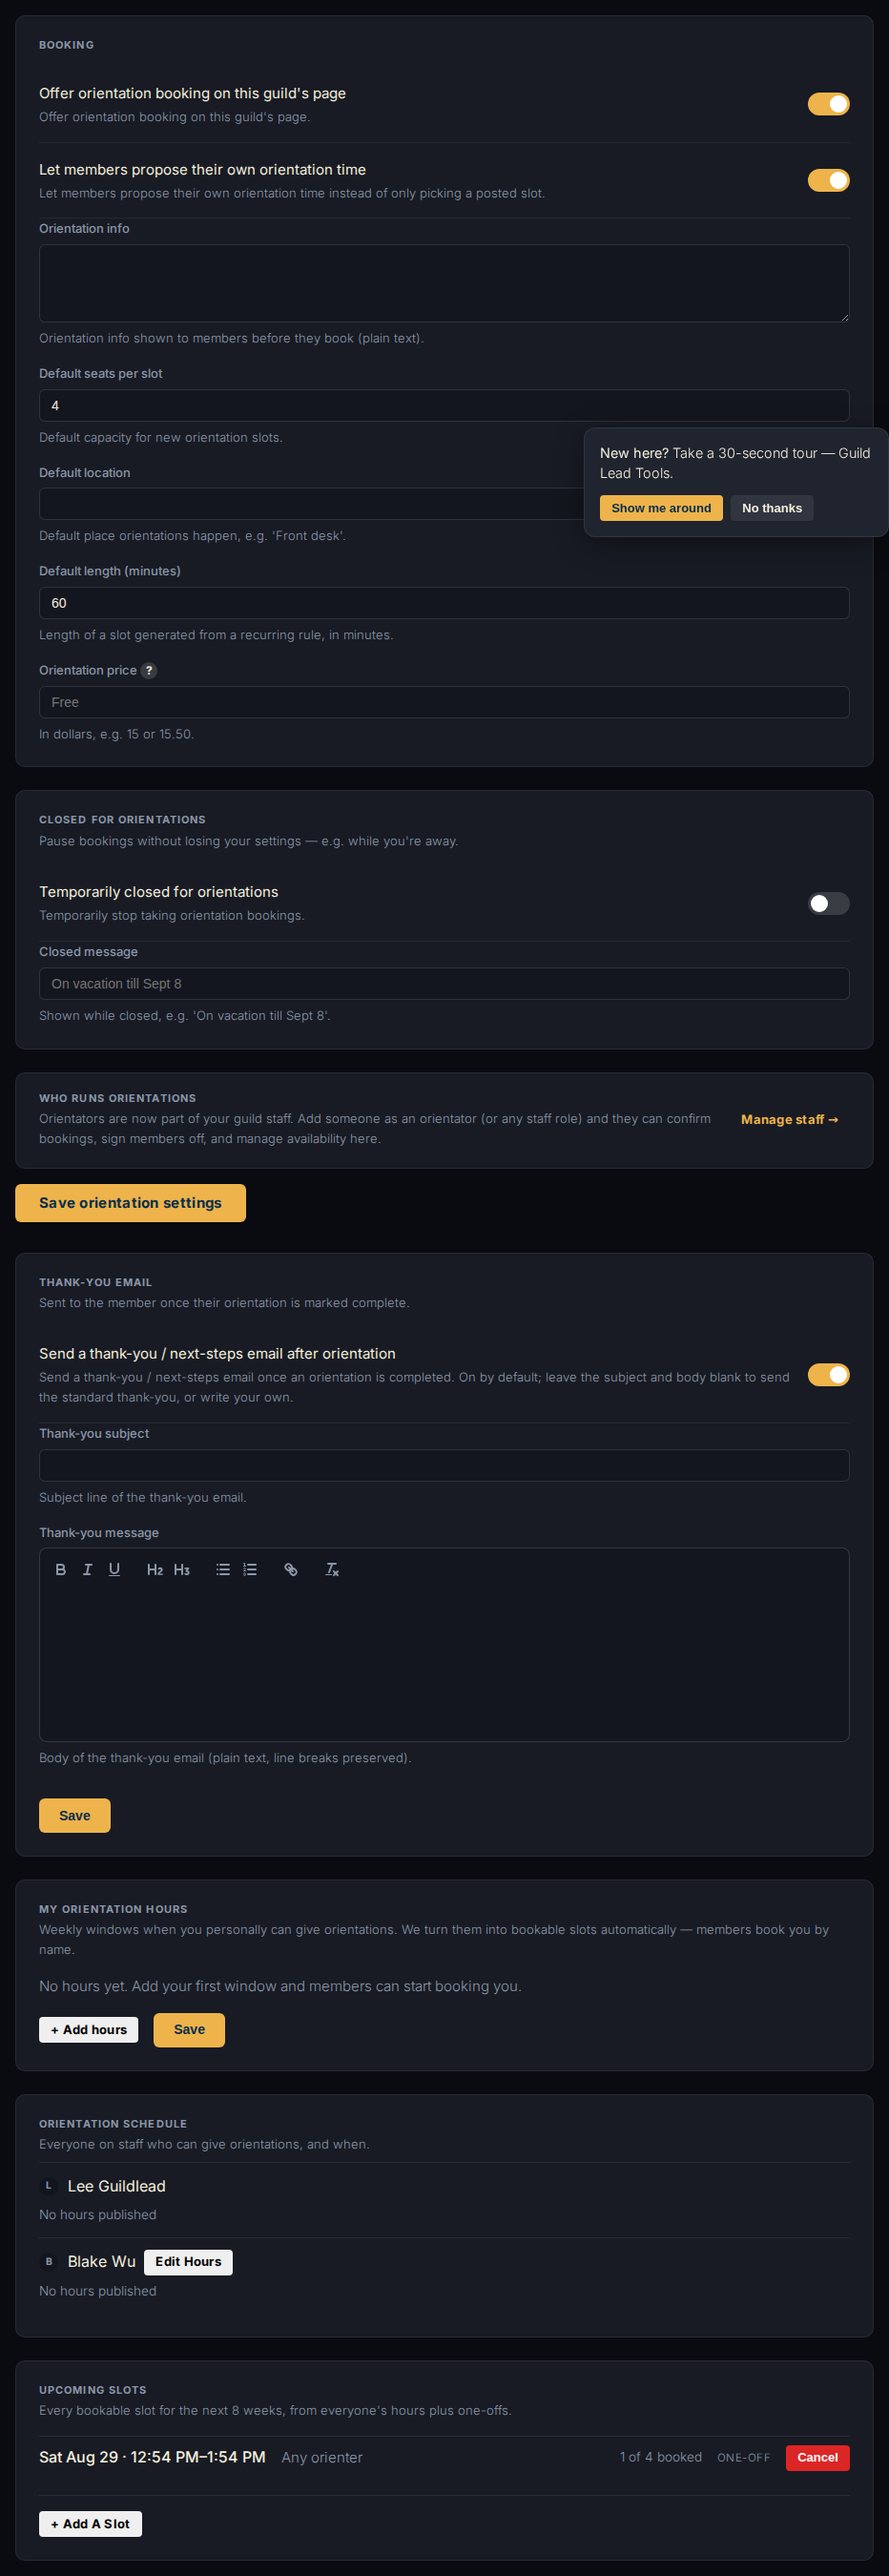
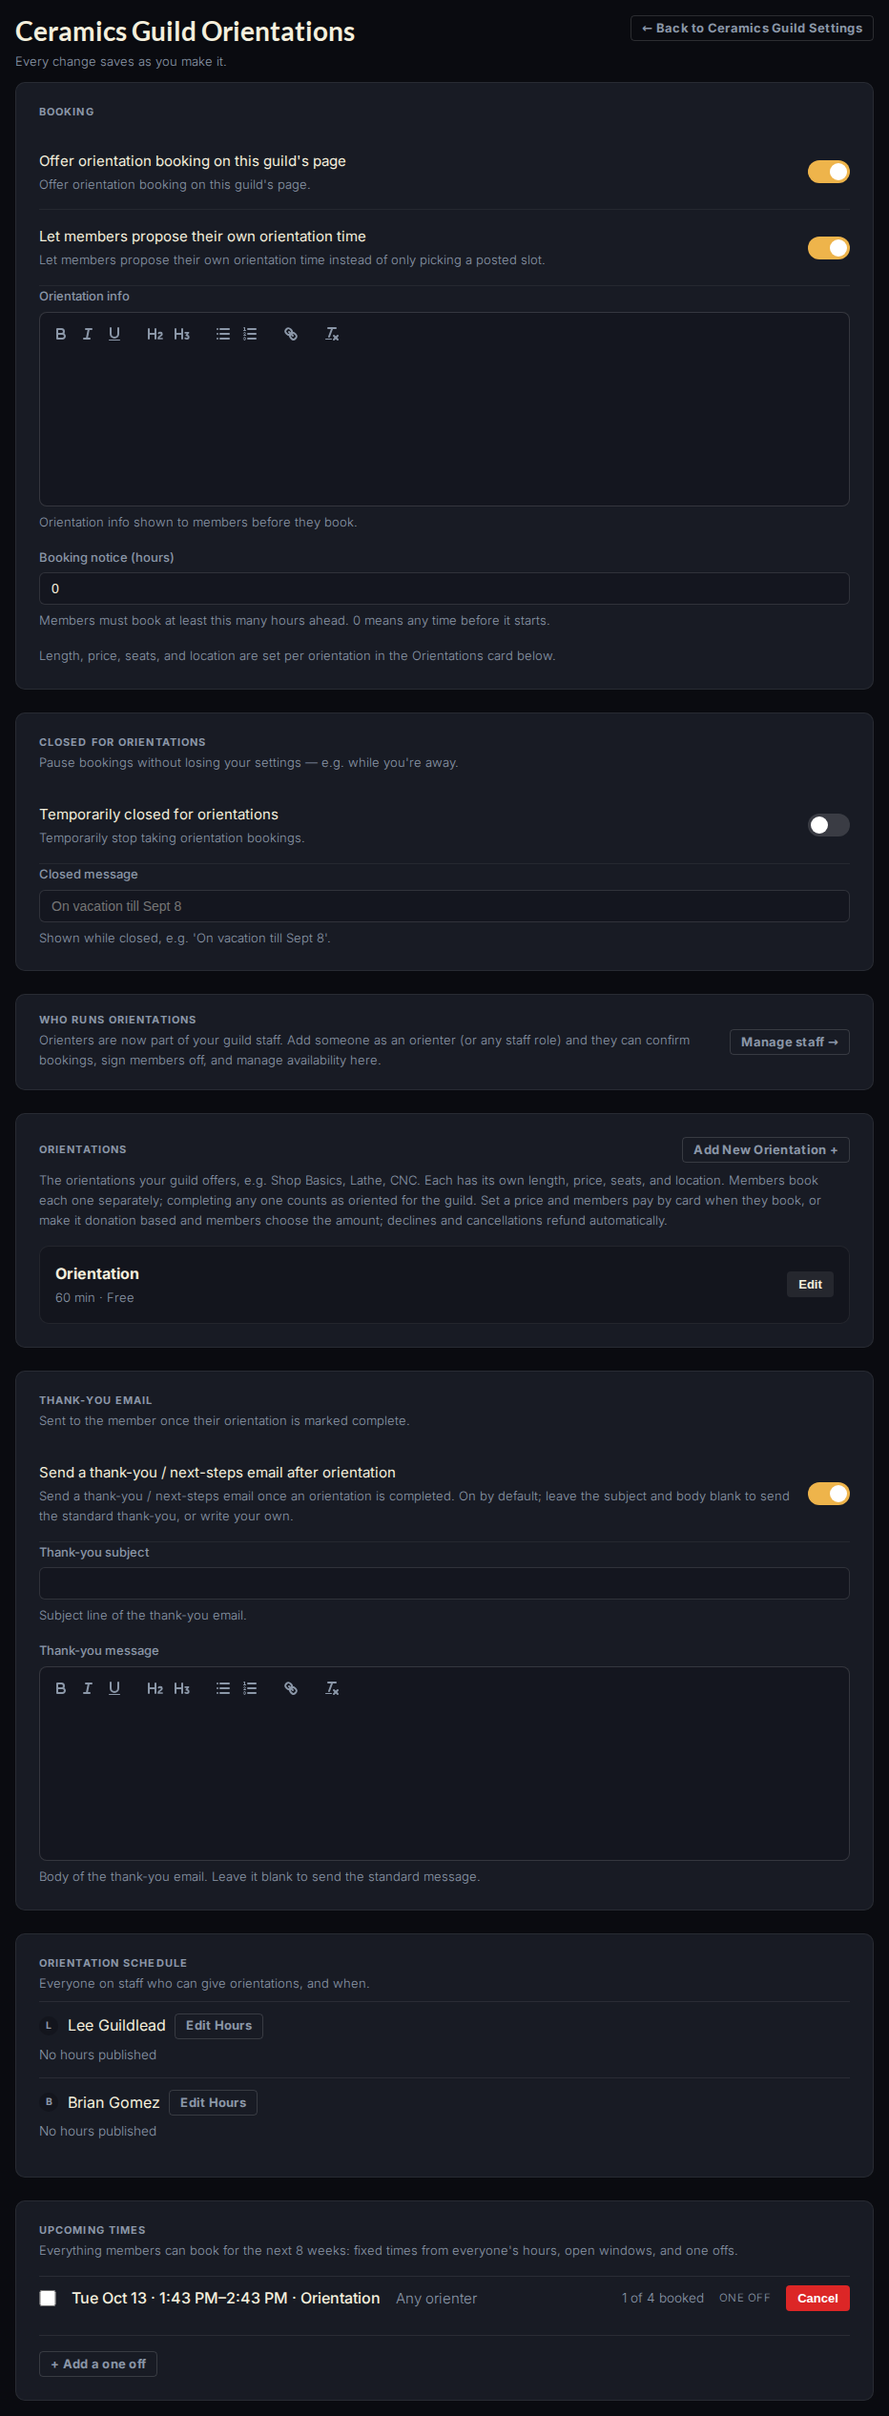
[help] The Running Orientations guide matches today's pages
Claude-Session: https://claude.ai/code/session_0141EvFJ5pjW69hSmXKHm8xN

diff --git a/membership/help_content.py b/membership/help_content.py
@@ -1485,43 +1485,61 @@ The primary guild lead is set by an admin, not on this tab. If your guild's lead
         "sort_order": 40,
         "related": ["getting-oriented", "guild-staff-roles"],
         "body": """\
-Members request orientations from your guild's own page. Every request stays pending until you (or any of your staff) confirm it; nothing is official until then. This guide is the lead's side: setting up booking, responding, and tracking who's oriented.
+Members request orientations from your guild's page and from the Orientations page. Every request stays pending until you (or any of your staff) confirm it; nothing is official until then. This guide is the lead's side: setting up booking, publishing hours, responding, and tracking who's oriented.
 
 <!-- Video slot: paste a Loom embed here — see docs/HELP_AUTHORING.md, Video Walkthroughs. -->
 
+### Your Guild's Orientations Page
+
+Everything you set up lives on one page. Open it from **Manage Bookings** in the left menu (the **Orientations** link on your guild's card) or from the **Orientations** tab in **Guild Settings**. Every change on this page saves as you make it; there is no Save button to find.
+
+![Your guild's Orientations page: booking settings, your orientations, the Orientation Schedule, and Upcoming Times.](/static/help/running-orientations/01-orientations-tab.png)
+
 ### Turn On Booking
 
-1. Open your guild's **Orientations** page: click the **Orientations** tab in **Guild Settings**, or **+ Add an Orientation** on the Orientations page.
-2. In the **Booking** card, switch booking on and fill in your defaults: how many seats a slot holds, where orientations happen, and how long they run. The info text you write here is shown to members before they book.
+1. Click **Add New Orientation +** at the top of the **Orientations** card. The **Add an Orientation** page asks for the guild first, then the orientation: its name, length, seats, location, price (or donation based) and description. Save, and you land back on your guild's Orientations page, where the new orientation sits as one line (name, length, price) with an **Edit** button for the full form.
+2. In the **Booking** card, switch booking on. The info text you write here is shown to members before they book.
 3. Choose whether members may propose their own time (custom requests).
-4. Click **Save orientation settings**.
+4. Set a **Booking notice (hours)** if you don't want last minute bookings: members must book at least that many hours ahead, and any time closer than that is simply not offered. 0 means any time before it starts.
 
-![Your guild's Orientations page: booking settings, the thank you email, and the Orientation Schedule.](/static/help/running-orientations/01-orientations-tab.png)
+Length, price, seats and location are per orientation, so a guild can offer Shop Basics for free and a paid Lathe orientation side by side. Completing any one of them counts as oriented for the guild.
 
-Going away for a while? The **Closed for orientations** card pauses bookings without losing any of your settings, and shows members your message (like: on vacation till Sept 8).
+Going away for a while? The **Closed for orientations** card pauses bookings without losing any of your settings, and shows members your message (like: on vacation till Sept 8). For a single day, take a day off instead (below).
 
-### Recurring Hours {#orientation-recurring-hours}
+### Hours {#orientation-recurring-hours}
 
-The **Recurring hours** card is where bookable times come from. Add one row per weekly window (Tuesdays 6-7 pm and Saturdays 10-11 am are two rows), then click **Save Hours**. Saving turns your hours into concrete bookable slots immediately, and a nightly job keeps the next eight weeks open.
+Bookable times come from people's hours. The **Orientation Schedule** card lists everyone on your staff who can give orientations; click **Edit Hours** beside a name to open their hours. Each row is one recurring window: the orientation it is for, **How members book** (fixed start times, or any time in the window), the day, from and until, how often it repeats (every week, every other week, monthly, and so on) and the day it starts. Click **+ Add hours** for another row, then **Save**. Saving turns the hours into concrete bookable times right away, and a nightly job keeps the next eight weeks open.
 
-![Recurring hours become bookable slots automatically.](/static/help/running-orientations/02-recurring-hours.png)
+Hours belong to a person: members book you by name. A plain orienter edits only their own hours; the lead and admins edit anyone's.
 
-### Availability Blocks {#orientation-availability-blocks}
+### Days Off {#orientation-days-off}
 
-Open windows are another way to open up time. Add one from the **Upcoming Times** card on your guild's **Orientations** page (opened from the **Orientations** tab in Guild Settings or the **+ Add an Orientation** button): post one window (say, Saturday 1 to 4 pm) and members pick any of the guild's orientations plus a start time inside it; each booking takes up that orientation's length, so one window can serve several members back to back. Windows can't be edited once posted; cancel one and post a fresh window instead. Cancelling stops new bookings right away but keeps anything already booked on the calendar.
+Away on a day your hours fall on? Click **Days Off** beside your name on the **Orientation Schedule** card, pick the date, and save. Every orientation time of yours that day is cancelled (anyone booked is emailed), and nothing is generated for that day however far ahead it is, so a holiday three months out is handled now. Before you save, the form tells you how many times that day will be cancelled. Your upcoming days off read under your hours ("Off Nov 26, Dec 25"), and deleting one puts the day back on the next nightly run.
 
-### Custom Times and One-Off Slots
+### Open Windows {#orientation-availability-blocks}
 
-If you allow custom requests, a member who can't make your posted times can propose their own. That creates a one-off, single-seat slot at their proposed time and sends you the same request as any other booking; confirm it and it's on. You can also put a member into any upcoming slot yourself from the Bookings tab (below).
+An open window is a span of time (say, Saturday 1 to 4 pm) where members pick an orientation and any start time inside it; each booking takes up that orientation's length, so one window can serve several members back to back. Publish one as recurring hours with **How members book** set to any time in the window, or post a single one from **+ Add a one off** on the **Upcoming Times** card. Windows can't be edited once posted; cancel one and post a fresh window instead. Cancelling stops new bookings right away but keeps anything already booked on the calendar.
+
+### Custom Times and One Offs
+
+If you allow custom requests, a member who can't make your posted times can propose their own. That creates a one off, single seat slot at their proposed time and sends you the same request as any other booking; confirm it and it's on. You can post a one off yourself from **+ Add a one off** on the **Upcoming Times** card, and put a member into any upcoming slot from the Bookings tab (below).
+
+**Upcoming Times** lists everything members can book for the next eight weeks. Cancel one time with its **Cancel** button, or tick several and **Cancel selected**; anyone booked on them is emailed.
 
 ### Respond to a Request {#orientation-respond-requests}
 
 When a member requests a slot, the guild lead and every staff member get an email, and orienters get an in-app notice. You can respond two ways:
 
 - **From the email.** It carries direct confirm and decline links. Each opens a one-click confirmation page and works without logging in, so you can handle a request from your phone.
-- **From the app.** On the Orientations page's **Bookings** tab, open the row's **...** menu and pick **Confirm Request** or **Decline Request** (with an optional note, like suggesting another time). **View Request** opens the full request, which has the same buttons, as do the email's respond link and the in-app notice.
+- **From the app.** **Manage Bookings** in the left menu opens on **Needs Attention**, every request waiting on you; open the row's **...** menu and pick **Confirm Request** or **Decline Request** (with an optional note, like suggesting another time). The same rows are on the Orientations page's **Bookings** tab. **View Request** opens the full request, which has the same buttons, as do the email's respond link and the in-app notice.
 
 Confirming emails the member a calendar invite. Declining emails them your note. If plans change after you've confirmed, **Cancel this orientation** notifies the member; members can also cancel their own bookings, and you'll see the status change.
+
+### Manage Bookings {#manage-bookings}
+
+**Manage Bookings** in the left menu is the one place for everything you run. Leads, staff, equipment managers and admins see it; nobody else does. **Needs Attention** holds the orientation requests waiting on you and the reservation requests on equipment you manage, with their actions in each row's menu. **What You Run** is one card per guild and piece of equipment you run: whether booking is on, its orientations, and links to its Orientations page and its Bookings. **Your Hours** is your own recurring hours everywhere, with **Edit Hours**.
+
+![Manage Bookings: what needs your reply, what you run, and your hours.](/static/help/running-orientations/02-manage-bookings.png)
 
 ### The Bookings Tab {#orientation-dashboard}
 
@@ -1547,14 +1565,14 @@ Every 15 minutes, a background job marks confirmed orientations complete once th
                 "file": "01-orientations-tab.png",
                 "page": "/guilds/1/orientations/",
                 "selector": "[data-guild-orientations]",
-                "caption": "Your guild's Orientations page: booking settings, the thank you email, and the Orientation Schedule.",
+                "caption": "Your guild's Orientations page: booking settings, your orientations, the Orientation Schedule, and Upcoming Times.",
                 "as_role": "guild_lead",
             },
             {
-                "file": "02-recurring-hours.png",
-                "page": "/guilds/1/orientations/",
-                "selector": "form[action='/guilds/1/orientation/hours/save/']",
-                "caption": "Recurring hours become bookable slots automatically.",
+                "file": "02-manage-bookings.png",
+                "page": "/manage/bookings/",
+                "selector": None,
+                "caption": "Manage Bookings: what needs your reply, what you run, and your hours.",
                 "as_role": "guild_lead",
             },
             {
